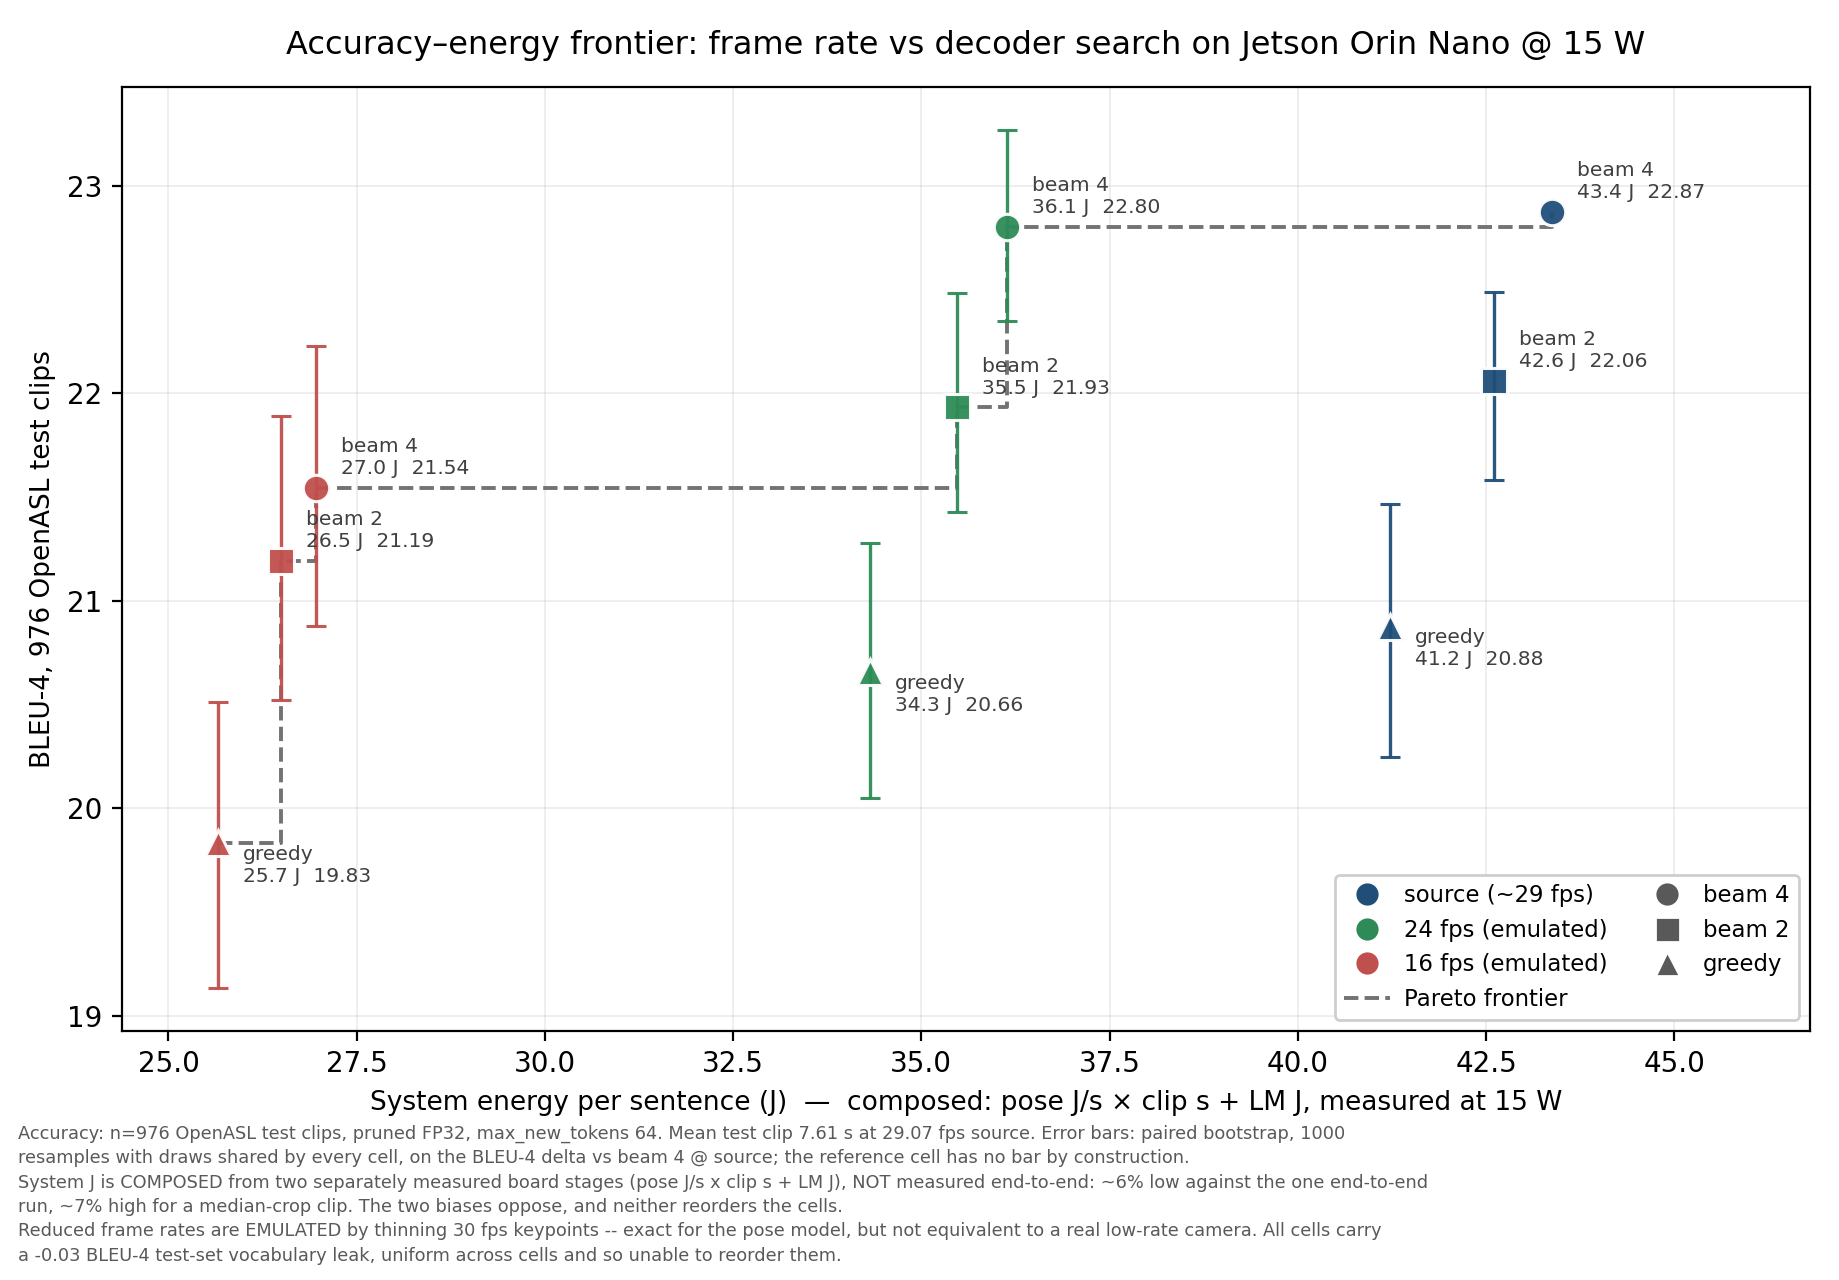
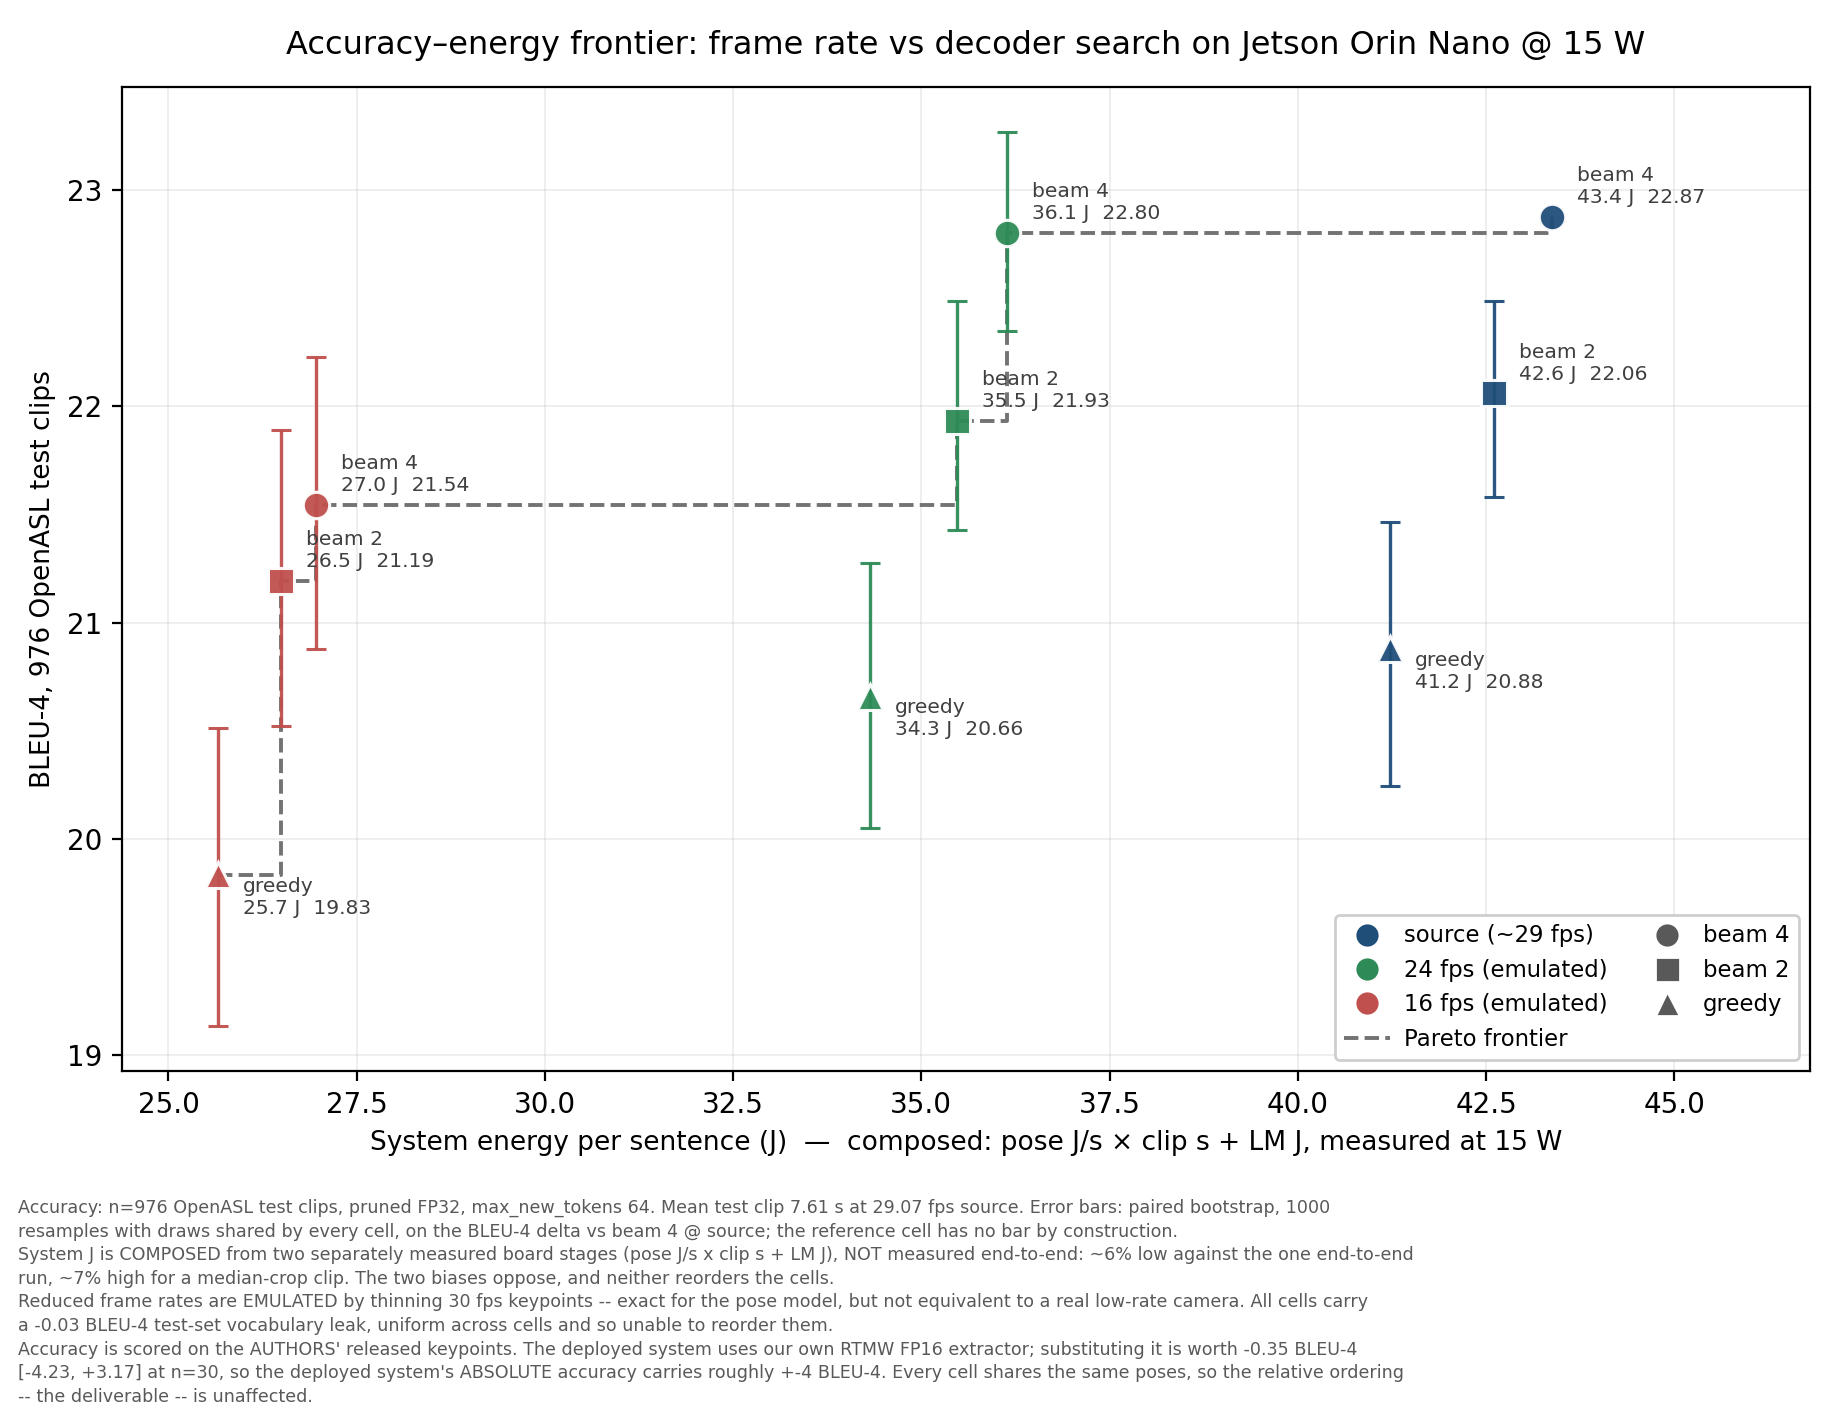
frontier: label that the accuracy axis uses the authors' keypoints
2.5f measured the deployable config (pruned ckpt on our own RTMW FP16 keypoints)
and exposed an assumption the frontier never stated: its nine accuracy cells are
scored on the AUTHORS' released poses, while the deployed system uses our own
extractor. The substitution is worth -0.35 BLEU-4 [-4.23, +3.17] at n=30, so the
deployed system's absolute accuracy carries ~+-4 BLEU-4 -- wider than most
differences the plot resolves.

Pruning does not add to it: -0.46 [-3.82, +2.03] on our keypoints against -0.28
[-0.63, +0.05] on theirs. Relative ordering is unaffected since every cell shares
the same poses.

frontier.py, plot_frontier.py and the figure caption now state it. Figure grown to
7.1in and the footnote margin widened, because the fourth caveat paragraph was
riding up over the x-axis label.

diff --git a/results/plot_frontier.py b/results/plot_frontier.py
@@ -90,7 +90,7 @@ with open(CSV, "w", newline="") as f:
 print(f"wrote {CSV}")
 
 # ---------------------------------------------------------------------------- plot
-fig, ax = plt.subplots(figsize=(9.2, 6.4))
+fig, ax = plt.subplots(figsize=(9.2, 7.1))
 
 # one colour per frame rate, one marker per decoder: the two levers read independently
 COL = {"source": "#1f4e79", 24: "#2e8b57", 16: "#c0504d"}
@@ -155,13 +155,18 @@ paras = [
     "Reduced frame rates are EMULATED by thinning 30 fps keypoints -- exact for the pose model, "
     "but not equivalent to a real low-rate camera. All cells carry a -0.03 BLEU-4 test-set "
     "vocabulary leak, uniform across cells and so unable to reorder them.",
+    "Accuracy is scored on the AUTHORS' released keypoints. The deployed system uses our own RTMW "
+    "FP16 extractor; substituting it is worth -0.35 BLEU-4 [-4.23, +3.17] at n=30, so the deployed "
+    "system's ABSOLUTE accuracy carries roughly +-4 BLEU-4. Every cell shares the same poses, so "
+    "the relative ordering -- the deliverable -- is unaffected.",
 ]
 # Wrap to the figure width in characters, or the caveats get clipped off the right edge.
 import textwrap  # noqa: E402
 width = int(fig.get_figwidth() * 100 / 6.0)
 foot = "\n".join(textwrap.fill(p, width) for p in paras)
-fig.text(0.010, 0.012, foot, fontsize=6.4, color="0.35", va="bottom", linespacing=1.45)
-fig.tight_layout(rect=(0, 0.105, 1, 1))
+fig.text(0.010, 0.010, foot, fontsize=6.3, color="0.35", va="bottom", linespacing=1.4)
+# four caveat paragraphs need real room, or they ride up over the x-axis label
+fig.tight_layout(rect=(0, 0.165, 1, 1))
 fig.savefig(PNG, dpi=200)
 print(f"wrote {PNG}")
 

diff --git a/unisign/frontier.py b/unisign/frontier.py
@@ -5,6 +5,15 @@ IMPORTANT - what kind of number each column is:
 
   * ACCURACY  : measured by us, n=976 OpenASL test clips, pruned FP32 checkpoint,
                 max_new_tokens 64, batch 8. See results/RESULTS.md L13.
+                *** ON THE AUTHORS' RELEASED KEYPOINTS, NOT OUR EXTRACTOR'S. *** The deployed
+                system feeds RTMW FP16 poses from our own pipeline. Substituting our poses is
+                worth -0.35 BLEU-4 [-4.23, +3.17] at n=30 (RESULTS.md 2.5c), so the DEPLOYED
+                system's absolute accuracy is ~22.8 BLEU-4 with an interval dominated by that
+                n=30 pose term at +-4. Pruning itself does not add to it: -0.46 [-3.82, +2.03]
+                on our own keypoints (2.5f), consistent with -0.28 [-0.63, +0.05] on theirs.
+                RELATIVE comparisons across the nine cells are unaffected -- every cell uses the
+                same poses -- which is again why the ordering is the deliverable and the absolute
+                column is not. The n=100 pass (2.5g) is what narrows this.
   * POSE ENERGY: measured by the pose track on the board (15 W, mode 0, INA3221 VDD_IN,
                 RTMW-l-m FP16, 3 repeats). HANDOFF-LM-TRACK-2026-09-26 s0d.
   * LM ENERGY : measured by the pose track on the board, same conditions, as a function of

diff --git a/results/RESULTS.md b/results/RESULTS.md
@@ -1837,3 +1837,26 @@ loaded.** Not yet done.
 * Pruned peak GPU is **1.02–1.09 GB** against 2.39–2.56 GB, mT5 load **28.6–29.0 s** against
   56.7–58.2 s, and it **clears the working-set failure** that blocked `source × beam 4` on the full
   checkpoint — succeeding at 4238 MB where the full model failed at 5768 MB.
+
+#### L16 addendum 3 (2026-10-03): the accuracy axis is on the authors' keypoints, now labelled
+
+§2.5f measured the deployable config — pruned checkpoint on **our own** RTMW FP16 keypoints — for the
+first time, and in doing so exposed an assumption the frontier had never stated.
+
+**The frontier's nine accuracy cells are scored on the AUTHORS' released keypoints.** The deployed
+system feeds poses from our own extractor. Substituting them is worth **−0.35 BLEU-4 [−4.23, +3.17]**
+at n=30 (§2.5c), so the deployed system's absolute accuracy is a *composed* estimate of ~22.8 BLEU-4 /
+~43.1 ROUGE-L whose interval is dominated by that n=30 pose term at **±4 BLEU-4** — far wider than
+most differences the plot resolves.
+
+**Pruning does not add to it.** On our own keypoints pruning costs **−0.46 BLEU-4 [−3.82, +2.03]**,
+consistent with the **−0.28 [−0.63, +0.05]** we measured on the authors' at n=976. The two pose
+sources agree about pruning, which is the question §2.5f existed to ask.
+
+**Relative ordering is unaffected**, because every cell uses the same poses — the same argument that
+protects the ordering from the energy biases. The absolute column was already the weak one and this
+widens it further. `unisign/frontier.py`, `results/plot_frontier.py` and the figure's caption now say
+so explicitly; the plot carries it as a fourth caveat paragraph.
+
+**What narrows it:** the n=100 pass (§2.5g, `jetson/p10_n100.sh`), which takes the pose-substitution
+comparison to 100 distinct videos with the authors' reference poses restricted to the same 100 clips.
